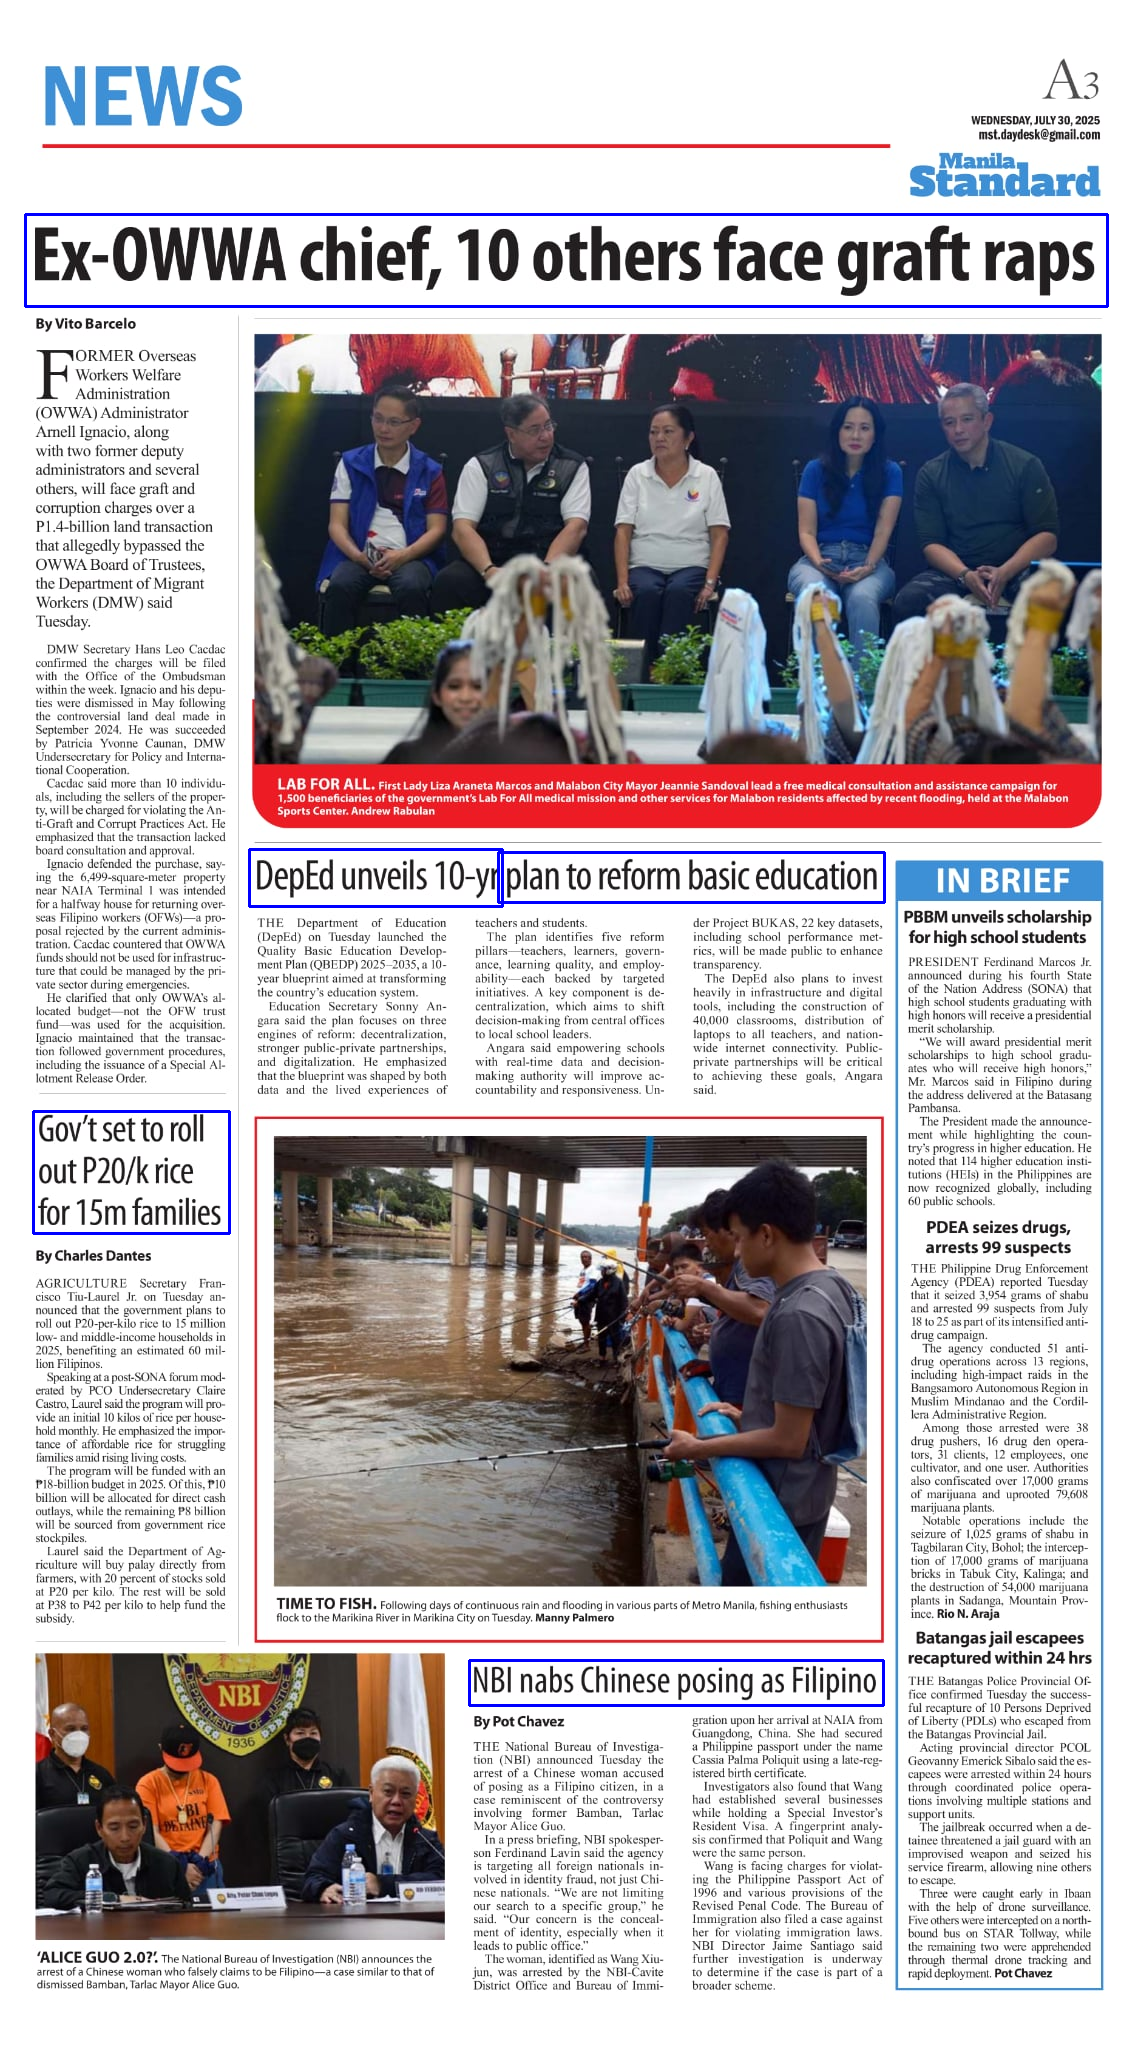
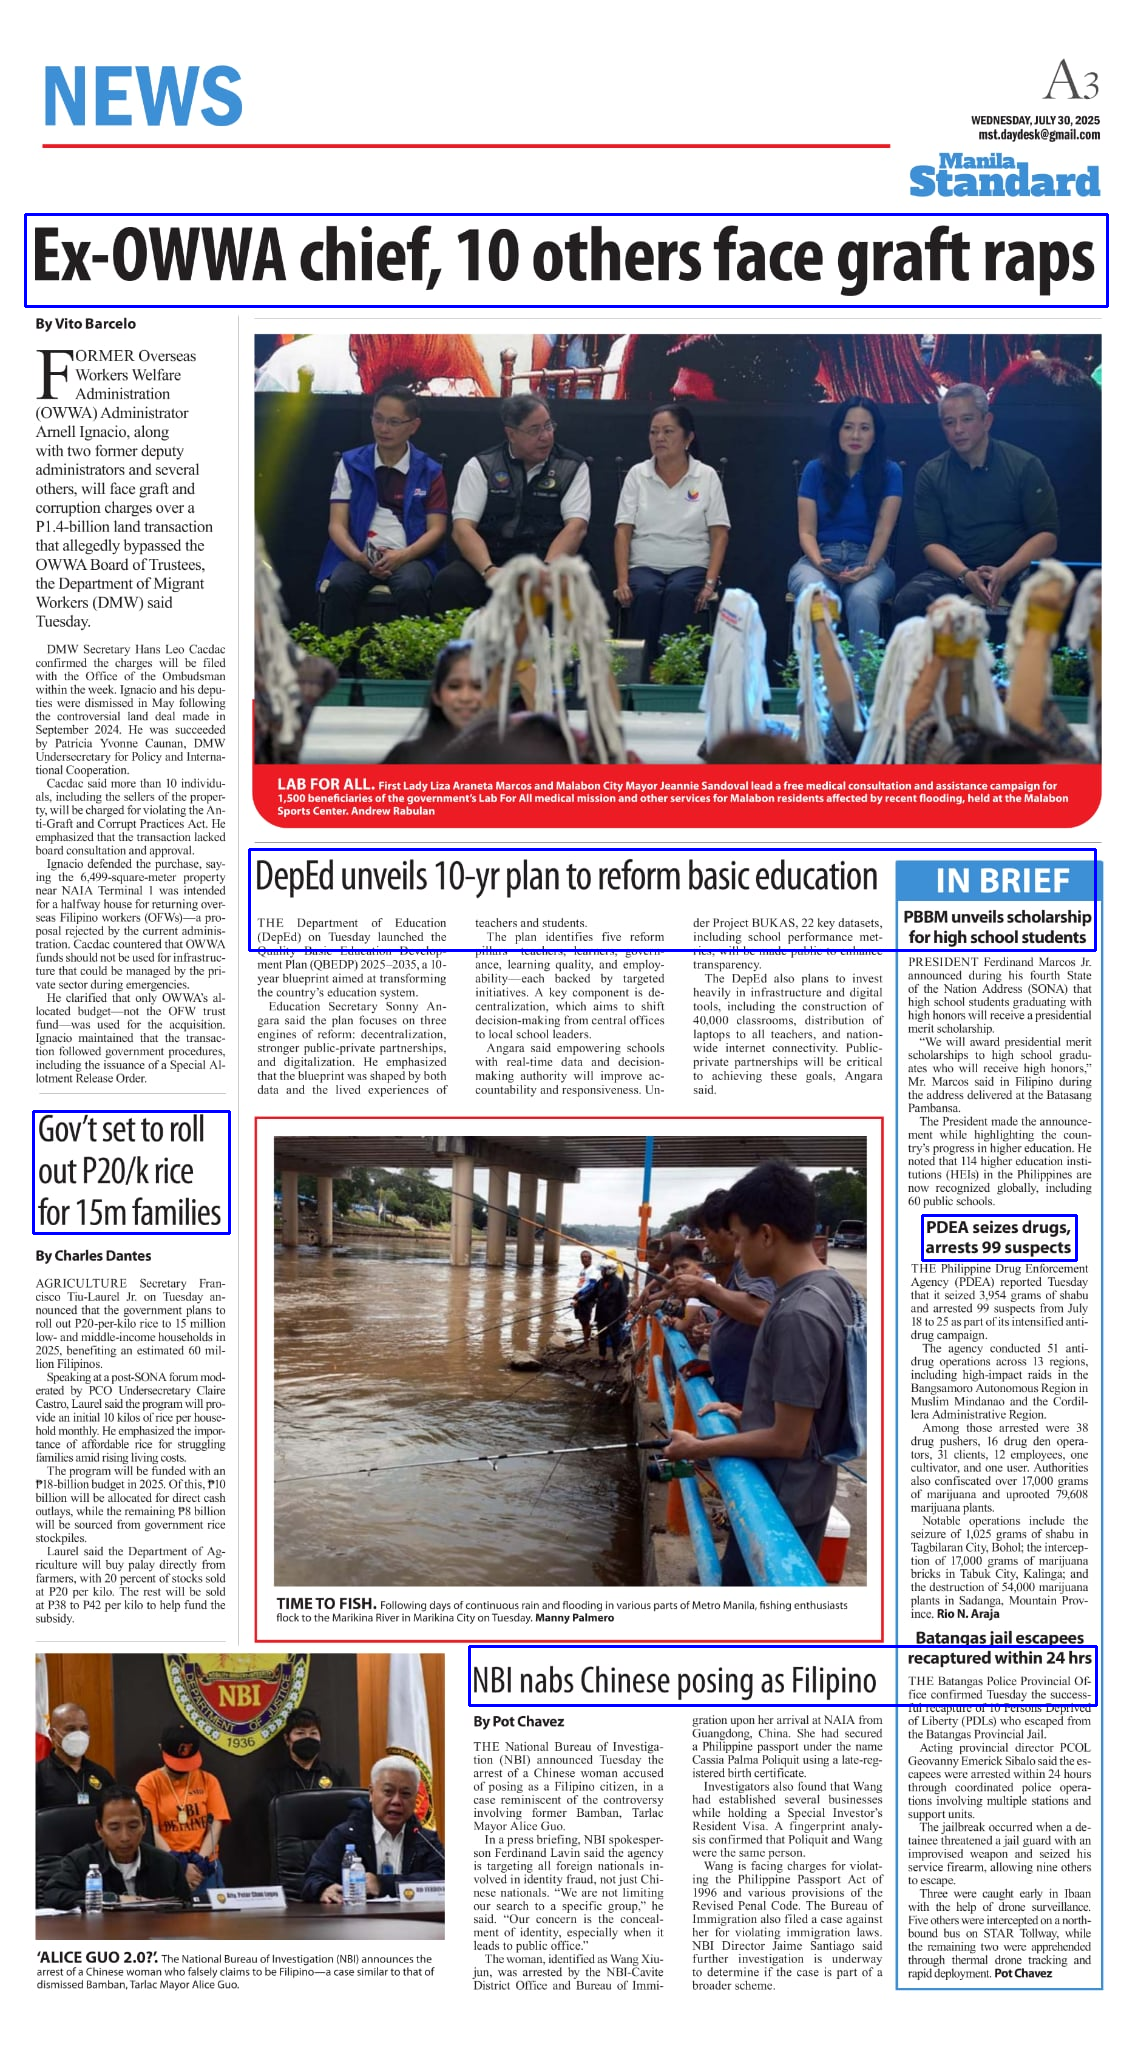
feat: horizontal merge for bounding box

diff --git a/main.py b/main.py
@@ -52,7 +52,148 @@ def generate(image_path):
     print(pretty)
 
     return data, image_path
+import google.generativeai as genai
+import json
+import os
+from dotenv import load_dotenv
+import easyocr
+import cv2
+from rapidfuzz import fuzz
 
+load_dotenv()
+
+def generate(image_path):
+    api_key = os.getenv("GEMINI_API_KEY")
+    genai.configure(api_key=api_key)
+
+    model = genai.GenerativeModel(
+        model_name="gemini-2.5-flash",
+        system_instruction="You are a helpful assistant that extracts newspaper fields from images.",
+        generation_config={"response_mime_type": "application/json"}
+    )
+
+    with open(image_path, "rb") as image_file:
+        image_bytes = image_file.read()
+
+    schema = {
+        "type": "object",
+        "properties": {
+            "headline": {"type": "array", "items": {"type": "string"}},
+            "subHeadline": {"type": "array", "items": {"type": "string"}},
+            "byline": {"type": "array", "items": {"type": "string"}},
+            "body": {"type": "array", "items": {"type": "string"}},
+            "quotes": {"type": "array", "items": {"type": "string"}},
+            "factboxes": {"type": "array", "items": {"type": "string"}}
+        }
+    }
+
+    prompt = (
+        "This is a newspaper image. "
+        "Extract any of the following fields if available: "
+        "headline, subHeadline, byline, body, quotes, factboxes. "
+        "Return the result strictly matching this JSON schema:\n\n"
+        f"{json.dumps(schema, indent=2)}"
+    )
+
+    response = model.generate_content([
+        {"text": prompt},
+        {"mime_type": "image/png", "data": image_bytes}
+    ])
+
+    raw_json = response.text
+    data = json.loads(raw_json)
+    pretty = json.dumps(data, indent=2)
+    print(pretty)
+
+    return data, image_path
+
+def should_merge(ex_tl, ex_tr, ex_br, ex_bl, tl, tr, br, bl, gap_x=20, gap_y=50):
+    print(ex_tl, ex_tr, ex_br, ex_bl, tl, tr, br, bl)
+    horizontal_close = abs(ex_tl[1] - tl[1]) < gap_x
+    if horizontal_close:
+        return True
+    else:
+        """
+        Returns True if rectangles overlap or are within gap thresholds.
+        """
+        if ex_br[0] + gap_x < tl[0]:  # a is strictly left of b
+            return False
+        if br[0] + gap_x < ex_tl[0]:  # b is strictly left of a
+            return False
+        if ex_br[1] + gap_y < tl[1]:  # a is strictly above b
+            return False
+        if br[1] + gap_y < ex_tl[1]:  # b is strictly above a
+            return False
+        return True
+
+    
+
+def draw_boxes_from_data(data, image_path):
+
+    # Define a color for each field
+    colors = {
+        "headline": (255, 0, 0),
+        "subHeadline": (0, 255, 0),
+        "byline": (0, 0, 255),
+        "body": (255, 255, 0),
+        "quotes": (255, 0, 255),
+        "factboxes": (0, 255, 255),
+    }
+
+    reader = easyocr.Reader(['en'])
+    image = cv2.imread(image_path)
+    results = reader.readtext(image)
+
+    validated = {"headline": []}
+    headline_text = " ".join(data['headline'])
+
+    for coordinates, text, _ in results:
+        score = fuzz.partial_ratio(headline_text, text)
+
+        if score > 80 and len(text.split()) > 1:
+            print(text)
+            # remove the matched text once from headline_text
+            headline_text = headline_text.replace(text, "", 1).strip()
+
+            tl = coordinates[0]  # top-left
+            tr = coordinates[1] 
+            br = coordinates[2]  # bottom-right
+            bl = coordinates[3]  # bottom-right
+            top_left = (int(tl[0]), int(tl[1]))
+            top_right = (int(tr[0]), int(tr[1]))
+            bottom_right = (int(br[0]), int(br[1]))
+            bottom_left = (int(bl[0]), int(bl[1]))
+
+            merged = False
+            for i, (ex_tl, ex_tr, ex_br, ex_bl) in enumerate(validated["headline"]):
+                print(text)
+                if should_merge(ex_tl, ex_tr, ex_br, ex_bl, top_left, top_right, bottom_right, bottom_left):
+                    # Calculate the new merged bounding box
+                    new_tl = (min(ex_tl[0], top_left[0]), min(ex_tl[1], top_left[1]))
+                    new_tr = (max(ex_tr[0], top_right[0]), min(ex_tr[1], top_right[1]))
+                    new_br = (max(ex_br[0], bottom_right[0]), max(ex_br[1], bottom_right[1]))
+                    new_bl = (min(ex_bl[0], bottom_left[0]), max(ex_bl[1], bottom_left[1]))
+
+                    validated["headline"][i] = (new_tl, new_tr, new_br, new_bl)
+                    merged = True
+                    break
+
+            if not merged:
+                validated["headline"].append((top_left, top_right, bottom_right, bottom_left))
+    print(validated["headline"])
+    # Draw merged bounding boxes
+    for top_left, _ , bottom_right, _ in validated["headline"]:
+        cv2.rectangle(image, top_left, bottom_right, colors["headline"], 2)
+
+    print("done") 
+    output_path = f"{os.path.splitext(image_path)[0]}_result{os.path.splitext(image_path)[1]}"
+    cv2.imwrite(output_path, image)
+    print(f"Saved boxed image to {output_path}")
+
+if __name__ == "__main__":
+    image_path = "sample3.png"
+    data, image_path = generate(image_path)
+    draw_boxes_from_data(data, image_path)
 def should_merge(a_tl, a_br, b_tl, b_br, gap_x=20, gap_y=50):
     """
     Returns True if rectangles overlap or are within gap thresholds.
@@ -121,6 +262,6 @@ def draw_boxes_from_data(data, image_path):
     print(f"Saved boxed image to {output_path}")
 
 if __name__ == "__main__":
-    image_path = "sample3.png"
+    image_path = "sample2.png"
     data, image_path = generate(image_path)
     draw_boxes_from_data(data, image_path)
